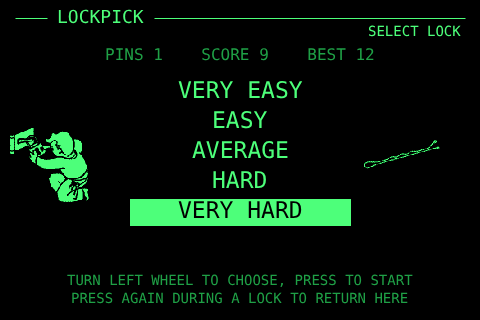
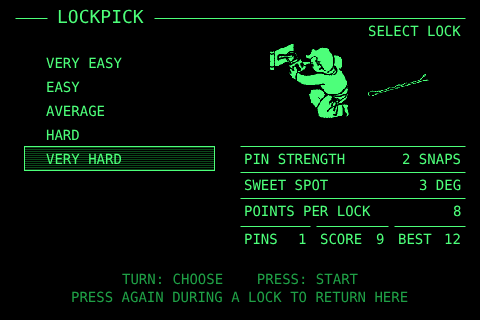
Lockpick 1.3.0: lock menu in the Pip-Boy's native list style
Claude-Session: https://claude.ai/code/session_01KQy8qcinjMEChBwS2Vwror

diff --git a/holotapes/Lockpick/storage/APP.ts b/holotapes/Lockpick/storage/APP.ts
@@ -14,6 +14,11 @@
     START_PINS: 8,
     D2R: 0.0174533,
     TUMBLER: 'HOLO/LOCKPICK/TUMBLER.JS',
+    // The lock menu, laid out like the Pip-Boy's own lists.
+    LIST_Y: 50,
+    ROW_H: 24,
+    LIST_W: 190,
+    PANEL_X: 240,
     // Tumbler mode per lock level: pin stacks, spool pins, spool slack.
     T_PINS: [3, 4, 5, 5, 6],
     T_SPOOLS: [0, 0, 0, 1, 2],
@@ -268,42 +273,63 @@
       .drawString(sub, 240, 198);
   }
 
+  // One labelled value in the details panel, drawn by the Pip-Boy's own
+  // stat block (the WG and VAL boxes in ITEMS).
+  function stat(y: number, label: string, value: string): void {
+    h.setColor(3);
+    Pip.renderBlock(C.PANEL_X, y, 225, label, value);
+  }
+
+  // The lock menu in the Pip-Boy's own list style (the same rows and
+  // highlight as ITEMS), with the highlighted lock's details on the right.
   function drawMenu(): void {
     let i = 0;
     let y = 0;
+    const rows = save.u ? 6 : 5;
     h.setBgColor(0).clear();
     drawHeader(save.m ? 'TUMBLER MODE' : 'SELECT LOCK');
-    h.setColor(2)
-      .setFontMonofonto16()
-      .setFontAlign(0, -1)
-      .drawString(
-        'PINS ' + save.p + '    SCORE ' + save.s + '    BEST ' + save.b,
-        240,
-        48,
-      );
-    for (i = 0; i < (save.u ? 6 : 5); i++) {
-      y = 92 + i * 30;
-      if (i === sel) {
-        h.setColor(3).fillRect(130, y - 13, 350, y + 13);
-        h.setColor(0);
-      } else {
-        h.setColor(i === 5 ? 2 : 3);
-      }
-      h.setFontMonofonto23()
-        .setFontAlign(0, 0)
+    h.setFontMonofonto14();
+    for (i = 0; i < rows; i++) {
+      y = C.LIST_Y + i * C.ROW_H;
+      if (i === sel) Pip.shadeBox(24, y, 24 + C.LIST_W, y + C.ROW_H);
+      h.setColor(i === 5 && i !== sel ? 2 : 3)
+        .setFontAlign(-1, 0)
         .drawString(
           i < 5 ? LEVELS[i].name : save.m ? 'MODE: TUMBLER' : 'MODE: CLASSIC',
-          240,
-          y,
+          46,
+          y + 14,
         );
     }
-    h.setColor(2)
-      .setFontMonofonto14()
-      .setFontAlign(0, -1)
-      .drawString('TURN LEFT WHEEL TO CHOOSE, PRESS TO START', 240, 274)
-      .drawString('PRESS AGAIN DURING A LOCK TO RETURN HERE', 240, 292);
-    if (boyArt) h.drawImage(boyArt, 10, 128, { scale: 0.82 });
-    if (pinArt) h.drawImage(pinArt, 364, 140, { scale: 0.75 });
+    if (sel < 5) {
+      const lv = LEVELS[sel];
+      if (boyArt) h.drawImage(boyArt, 270, 44, { scale: 0.82 });
+      if (pinArt) h.drawImage(pinArt, 368, 74, { scale: 0.6 });
+      stat(146, 'PIN STRENGTH', lv.hp + ' SNAPS');
+      stat(172, 'SWEET SPOT', lv.tol + ' DEG');
+      stat(198, 'POINTS PER LOCK', String(lv.pts));
+    } else {
+      const lines = h
+        .setFontMonofonto14()
+        .wrapString(
+          save.m
+            ? 'TUMBLER: SET EACH PIN IN THE LOCK ONE BY ONE WITH THE RIGHT WHEEL, THEN TURN. PRESS TO SWITCH BACK TO CLASSIC.'
+            : 'CLASSIC: FIND THE SWEET SPOT WITH THE BOBBY PIN AND TURN THE LOCK, AS IN THE GAMES. PRESS TO SWITCH TO TUMBLER.',
+          225,
+        );
+      h.setColor(3)
+        .setFontAlign(-1, -1)
+        .drawString(lines.join('\n'), C.PANEL_X, 60);
+    }
+    // This run, in three blocks side by side like WG and VAL in ITEMS.
+    h.setColor(3);
+    Pip.renderBlock(C.PANEL_X, 226, 70, 'PINS', String(save.p));
+    Pip.renderBlock(C.PANEL_X + 76, 226, 72, 'SCORE', String(save.s));
+    Pip.renderBlock(C.PANEL_X + 154, 226, 71, 'BEST', String(save.b));
+    h.setFontMonofonto14()
+      .setColor(2)
+      .setFontAlign(0, 0)
+      .drawString('TURN: CHOOSE    PRESS: START', 240, 280)
+      .drawString('PRESS AGAIN DURING A LOCK TO RETURN HERE', 240, 298);
   }
 
   // End of a run: the last bobby pin is gone.
